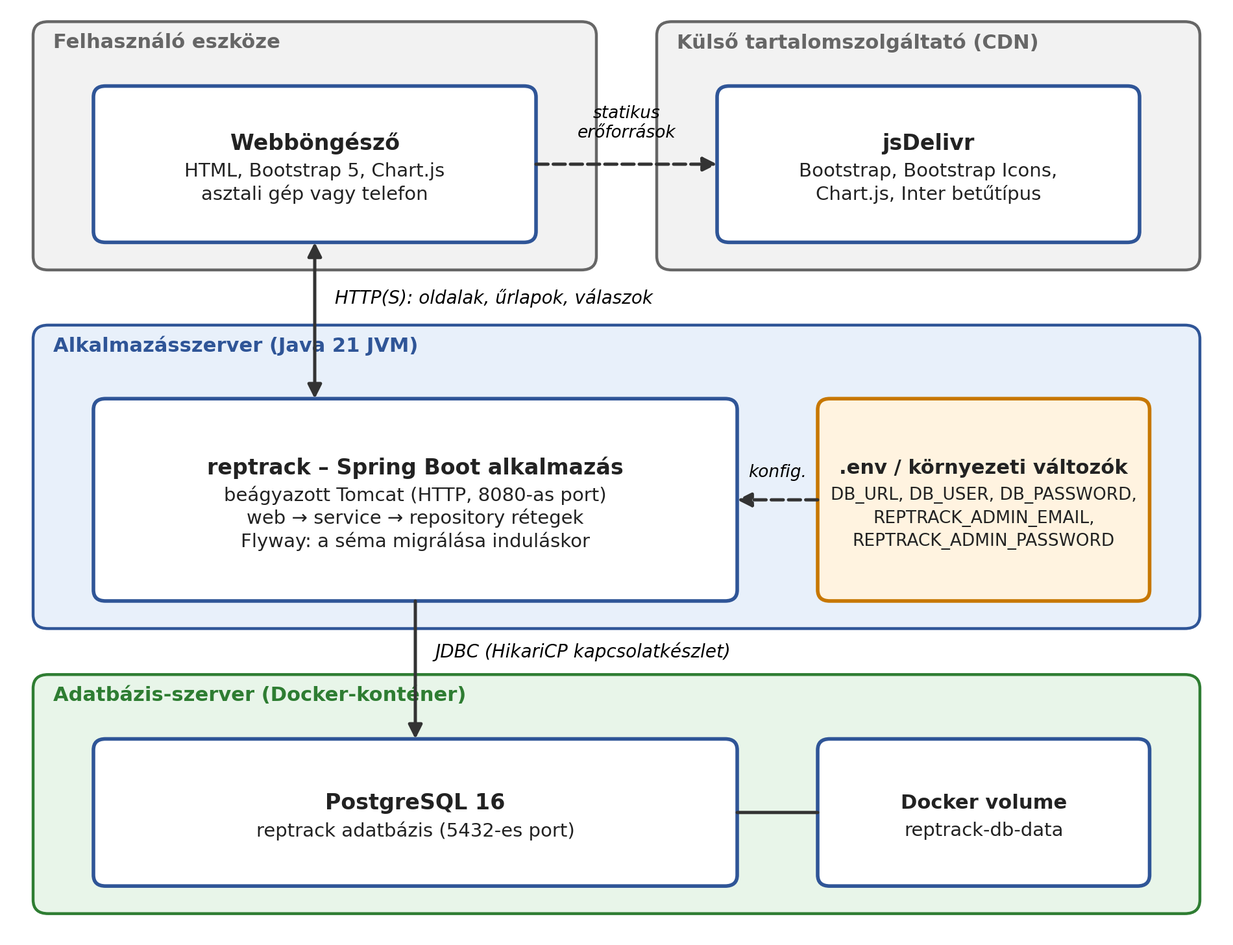
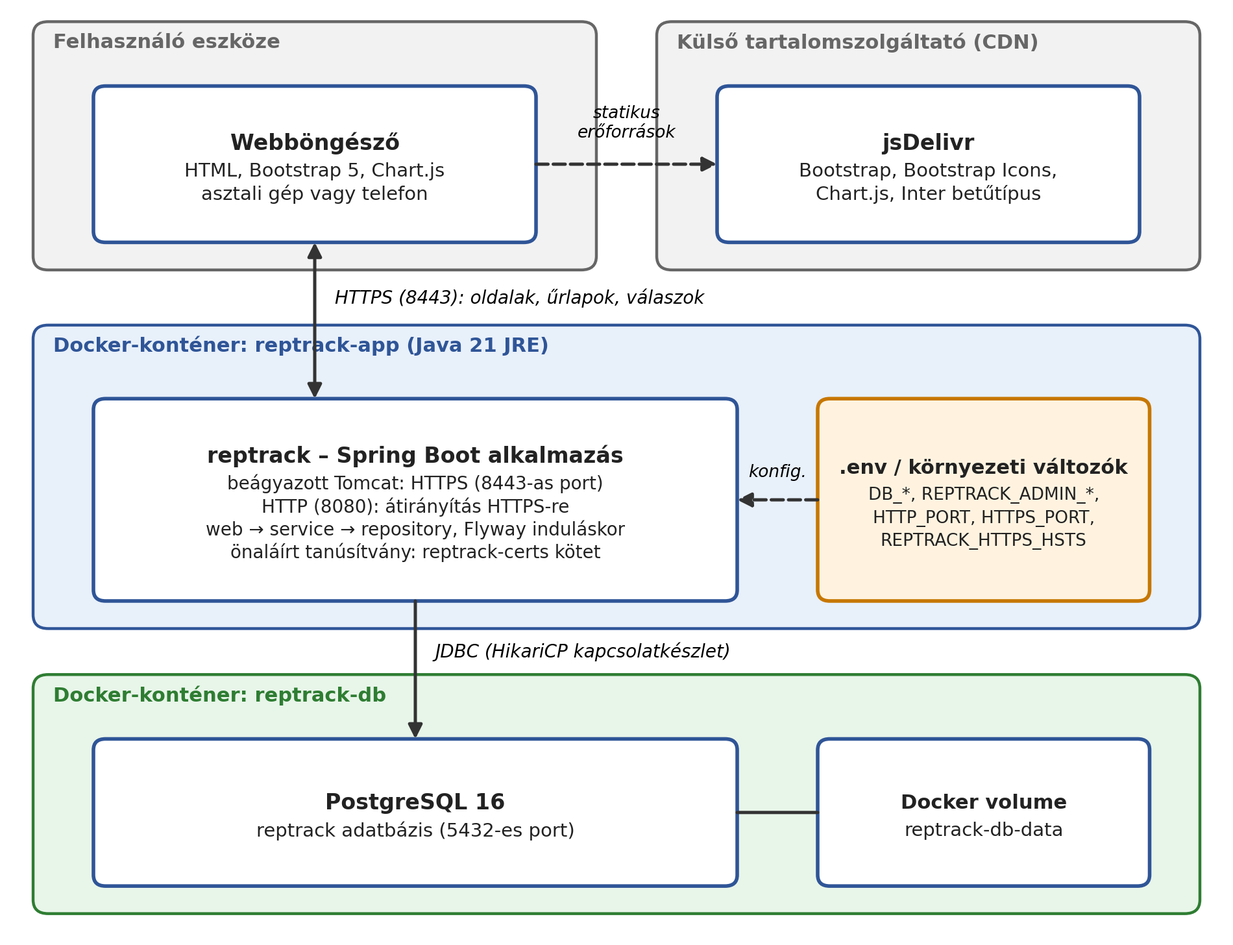
Telepítési dokumentáció, a rendszerterv frissítése a Docker és HTTPS megoldásra
- docs/telepites/build.js: a Telepítési dokumentáció (docx) generátora: Docker-es és Docker nélküli telepítés, beállítások,
  ellenőrzés, mentés, hibaelhárítás
- rendszerterv: a telepítési nézet, a biztonsági fejezet (HTTPS), a konfiguráció, a korlátok és a tesztek száma (255) a
  Docker + HTTPS megoldás (f4e56ee) szerint; az ábrák újragenerálva

diff --git a/docs/telepites/build.js b/docs/telepites/build.js
@@ -1,0 +1,206 @@
+// A Telepítési dokumentáció előállítása: node build.js <kimenet.docx>
+// Előfeltétel: `docx` npm modul (NODE_PATH vagy helyi telepítés). A stílusokat a ../rendszerterv/lib.js adja.
+const fs = require("fs");
+const {
+  Document, Packer, Paragraph, TextRun, ShadingType, BorderStyle, AlignmentType, LevelFormat, Footer, PageNumber,
+  TabStopType,
+} = require("docx");
+const L = require("../rendszerterv/lib");
+const { p, h1, h2, bullets, numbered, note, table, tcap } = L;
+
+const out = process.argv[2] || "Edzeskoveto_Telepitesi_Dokumentacio.docx";
+
+function code(lines) {
+  return lines.map((t, i) => new Paragraph({
+    children: [new TextRun({ text: t, font: L.MONO, size: 19 })],
+    keepNext: i < lines.length - 1,
+    keepLines: true,
+    spacing: { before: i === 0 ? 60 : 0, after: i === lines.length - 1 ? 160 : 0, line: 252 },
+    indent: { left: 200, right: 100 },
+    shading: { type: ShadingType.CLEAR, fill: "F2F2F2", color: "auto" },
+  }));
+}
+
+const c = [];
+
+// ---- fejléc ----
+c.push(new Paragraph({
+  spacing: { after: 60 },
+  children: [new TextRun({ text: "TELEPÍTÉSI DOKUMENTÁCIÓ", bold: true, size: 26, color: L.BLUE2, characterSpacing: 60 })],
+}));
+c.push(new Paragraph({
+  spacing: { after: 80 },
+  children: [new TextRun({ text: "Edzéskövető és elemző alkalmazás (RepTrack)", bold: true, size: 44, color: L.BLUE })],
+}));
+c.push(new Paragraph({
+  spacing: { after: 280 },
+  border: { bottom: { style: BorderStyle.SINGLE, size: 12, color: L.BLUE2, space: 8 } },
+  children: [new TextRun({ text: "Szoftverarchitektúrák (VIAUMA21) · 2026. őszi félév · Dokumentumverzió: 1.0", size: 22, color: "404040" })],
+}));
+
+// ---- 1. ----
+c.push(h1("1. Áttekintés"));
+c.push(p("A RepTrack egy Java 21-es, Spring Boot alapú webalkalmazás, amely PostgreSQL adatbázist használ. Két módon telepíthető:"));
+c.push(...bullets([
+  "**Dockerrel (ajánlott).** Egyetlen paranccsal elindul az alkalmazás és az adatbázis is, az alkalmazás HTTPS-en érhető el. Ehhez csak a Dockerre van szükség, Java vagy PostgreSQL telepítése nem kell.",
+  "**Docker nélkül.** A futtatható JAR-t Java 21-gyel indítjuk, a PostgreSQL-t külön kell biztosítani.",
+]));
+
+// ---- 2. ----
+c.push(h1("2. Követelmények"));
+c.push(tcap("Követelmények"));
+c.push(table(["", "Docker-es telepítés", "Docker nélküli telepítés"], [
+  ["Szoftver", "Docker Engine és a Compose (`docker compose` bővítmény vagy az önálló `docker-compose`)", "JDK vagy JRE 21; PostgreSQL 16"],
+  ["Erőforrás", "kb. 2 GB szabad memória, 2 GB szabad tárhely (képek, Maven-gyorsítótár)", "kb. 1 GB szabad memória"],
+  ["Hálózat", "internet az első építéshez (a Maven-függőségek és az alapképek letöltése)", "–"],
+  ["Portok", "8443 (HTTPS), 8080 (átirányítás), 5432 (PostgreSQL) szabad legyen", "8080 szabad legyen"],
+  ["Böngésző", "modern böngésző (Chrome, Firefox, Edge, Safari); internet-hozzáférés, mert a Bootstrap, a Chart.js és a betűtípus CDN-ről töltődik", "ugyanaz"],
+], [1400, 4300, 3326], { size: 19, boldFirst: true }));
+
+// ---- 3. ----
+c.push(h1("3. Telepítés Dockerrel (ajánlott)"));
+c.push(...numbered([
+  "Csomagold ki a forráscsomagot, és lépj a projekt mappájába: `cd RepTrack`.",
+  "Hozd létre a beállítófájlt a mintából: `cp .env.example .env`. Nyisd meg, és add meg az első adminisztrátor adatait: `REPTRACK_ADMIN_EMAIL`, `REPTRACK_ADMIN_PASSWORD` (legalább 8 karakter) és `REPTRACK_ADMIN_NAME`. **A minta jelszavát mindenképpen cseréld le egy sajátra.**",
+  "Építsd meg és indítsd el a rendszert (az első építés néhány percig tart; a tesztek a képépítéskor nem futnak le):",
+], "numbers"));
+c.push(...code([
+  "docker compose up -d --build",
+]));
+c.push(note("Ha a gépen nincs `docker compose` parancs (a Compose bővítmény hiányzik), használd az önálló változatot: `docker-compose up -d --build`. Minden további `docker compose` parancs ugyanígy cserélhető."));
+c.push(...numbered([
+  "Ellenőrizd, hogy minden elindult: `docker compose ps`. Mindkét szolgáltatás (`db` és `app`) legyen „healthy”. A naplót a `docker compose logs -f app` mutatja; sikeres induláskor megjelenik az „Adminisztrátori fiók létrehozva” sor.",
+  "Nyisd meg a böngészőben a **https://localhost:8443** címet. A tanúsítvány önaláírt, ezért a böngésző első alkalommal figyelmeztet: a „Speciális” gombbal folytasd a megnyitást. A `http://localhost:8080` cím automatikusan a HTTPS-címre irányít.",
+  "Jelentkezz be az 1. lépésben megadott adminisztrátori e-mail-címmel és jelszóval, vagy a „Regisztráció” oldalon hozz létre új felhasználót.",
+], "n2"));
+
+c.push(h2("3.1 Leállítás, újraindítás, törlés"));
+c.push(...code([
+  "docker compose stop           # leállítás (az adatok megmaradnak)",
+  "docker compose start          # újraindítás",
+  "docker compose down           # konténerek törlése (az adatok megmaradnak)",
+  "docker compose down -v        # mindent töröl (adatbázis, tanúsítvány is)",
+]));
+c.push(h2("3.2 Más portok"));
+c.push(p("Ha a 8443-as vagy a 8080-as port foglalt, add meg a `.env` fájlban: `HTTPS_PORT=9443` és `HTTP_PORT=9080`. Az átirányítás is ezekre a portokra mutat."));
+
+// ---- 4. ----
+c.push(h1("4. Telepítés Docker nélkül (futtatható JAR)"));
+c.push(...numbered([
+  "Biztosíts egy PostgreSQL 16 adatbázist `reptrack` néven, `reptrack` felhasználóval. Ha van Docker, a mellékelt Compose fájl csak az adatbázist is el tudja indítani: `docker compose up -d db` (hozzáférés: `reptrack` / `reptrack`, a 5432-es porton).",
+  "Állítsd be a környezeti változókat (vagy hozz létre `.env` fájlt a JAR mellett): `DB_URL`, `DB_USER`, `DB_PASSWORD`, valamint az adminisztrátorhoz `REPTRACK_ADMIN_EMAIL`, `REPTRACK_ADMIN_PASSWORD`. Az alapértékek a helyi adatbázishoz illenek.",
+  "Indítsd el az alkalmazást Java 21-gyel:",
+], "n3"));
+c.push(...code([
+  "java -jar reptrack-0.0.1-SNAPSHOT.jar",
+]));
+c.push(p("Az alkalmazás ekkor sima HTTP-n a **http://localhost:8080** címen érhető el (HTTPS-hez a Docker-es telepítést használd). A sémát a Flyway az első induláskor automatikusan létrehozza, és feltölti az 50 alap gyakorlattal."));
+c.push(h2("4.1 A JAR előállítása a forrásból"));
+c.push(...code([
+  "export JAVA_HOME=/usr/lib/jvm/java-21-openjdk-amd64   # a JDK 21 helye",
+  "./mvnw clean package -DskipTests   # a JAR a target/ mappába kerül",
+  "./mvnw verify                      # tesztek (Docker kell hozzá)",
+]));
+
+// ---- 5. ----
+c.push(h1("5. Beállítások"));
+c.push(tcap("A környezeti változók és a `.env` beállításai"));
+c.push(table(["Változó", "Alapérték", "Jelentés"], [
+  ["`REPTRACK_ADMIN_EMAIL`, `REPTRACK_ADMIN_PASSWORD`", "(nincs)", "az első adminisztrátor adatai; csak akkor használja, ha még nincs adminisztrátor (a meglévő jelszót nem írja át)"],
+  ["`REPTRACK_ADMIN_NAME`", "Adminisztrátor", "az adminisztrátor megjelenített neve"],
+  ["`DB_URL`, `DB_USER`, `DB_PASSWORD`", "`jdbc:postgresql://localhost:5432/reptrack`, `reptrack`, `reptrack`", "adatbázis-hozzáférés (a Compose automatikusan beállítja); a jelszó Docker esetén csak az adatbázis első létrehozása előtt módosítható"],
+  ["`HTTPS_PORT`, `HTTP_PORT`", "8443, 8080", "a Docker-futtatás gazdagépen kiadott portjai"],
+  ["`REPTRACK_HTTPS_HSTS`", "false", "a HSTS fejléc; valódi domainnél és hiteles tanúsítványnál kapcsold be"],
+  ["`SERVER_SSL_KEY_STORE_PASSWORD`", "(a konténer készíti)", "saját tanúsítvány esetén annak jelszava"],
+  ["`SERVER_PORT`", "8080", "a HTTP-port Docker nélküli indításnál"],
+], [3200, 2700, 3126], { size: 18 }));
+c.push(p("", { spacing: { after: 40 } }));
+c.push(p("**Saját tanúsítvány.** A konténer az első induláskor önaláírt tanúsítványt készít, véletlen jelszóval, a `reptrack-certs` kötetbe, így újraindításkor ugyanaz marad (a böngészőben egyszer elfogadott kivétel érvényes marad). Hiteles tanúsítványhoz tedd a kötetbe `reptrack.p12` néven (alias: `reptrack`), és add meg a jelszavát a `SERVER_SSL_KEY_STORE_PASSWORD` változóban."));
+
+// ---- 6. ----
+c.push(h1("6. Működés ellenőrzése"));
+c.push(...bullets([
+  "A **Gyakorlatok** oldalon az 50 alapgyakorlat látszik (kategória, izomcsoport szerint szűrhető).",
+  "Az **Edzések → Új edzés** oldalon vegyél fel egy edzést néhány szettel. A **Befejezés** mezőt és a fáradtságot is töltsd ki: csak a lezárt edzések számítanak bele az egyéni csúcsokba és a túlterhelési szabályokba.",
+  "Vegyél fel még egy, jobb eredményű edzést ugyanabból a gyakorlatból: az **Egyéni csúcsok** oldalon megjelenik az új csúcs. A **Statisztikák** oldalon a diagramok kirajzolódnak.",
+  "A **Profil és célok** oldalon rögzíthető a testtömeg és az edzéscél.",
+]));
+
+// ---- 7. ----
+c.push(h1("7. Biztonsági mentés és visszaállítás"));
+c.push(...code([
+  "# mentés:",
+  "docker exec reptrack-db pg_dump -U reptrack reptrack > mentes.sql",
+  "# visszaállítás (üres adatbázisba):",
+  "docker exec -i reptrack-db psql -U reptrack reptrack < mentes.sql",
+]));
+
+// ---- 8. ----
+c.push(h1("8. Hibaelhárítás"));
+c.push(tcap("Gyakori problémák"));
+c.push(table(["Tünet", "Ok és megoldás"], [
+  ["`port is already allocated` vagy a 8443, 8080, 5432 foglalt", "másik program (például egy helyi PostgreSQL vagy egy korábbi fejlesztői példány) használja a portot. Állítsd le, vagy a `.env`-ben adj meg más `HTTPS_PORT` és `HTTP_PORT` értéket (az 5432-es adatbázisport a Compose fájlban rögzített)."],
+  ["`docker: 'compose' is not a docker command`", "a Compose bővítmény nincs telepítve: használd az önálló `docker-compose` parancsot, vagy telepítsd a Compose bővítményt."],
+  ["Böngészőfigyelmeztetés (például `ERR_CERT_AUTHORITY_INVALID`)", "várt jelenség, a tanúsítvány önaláírt. Fogadd el a „Speciális → Folytatás” gombbal. Hiteles tanúsítványt lásd az 5. fejezetben."],
+  ["Az átirányítás rossz portra mutat", "a `HTTP_PORT` és a `HTTPS_PORT` értéke egyezzen a ténylegesen használt portokkal; a `.env` módosítása után `docker compose up -d` újraindítja az alkalmazást."],
+  ["Az alkalmazás nem indul el, a naplóban admin-hiba szerepel", "az admin adatai hibásak (rossz e-mail-formátum, a jelszó rövidebb 8 karakternél, vagy a cím egy meglévő nem admin fiókhoz tartozik). A hibaüzenet megnevezi a javítandó változót."],
+  ["`password authentication failed for user \"reptrack\"`", "az adatbázis jelszava csak az adatbázis első létrehozásakor érvényesül. Használd a régi jelszót, vagy töröld az adatokat: `docker compose down -v` (adatvesztéssel jár)."],
+  ["Flyway-hiba (`checksum mismatch`) vagy séma-eltérés", "régebbi fejlesztői adatbázis maradt meg. Fejlesztési környezetben `docker compose down -v` után újraépül."],
+  ["`release version 21 not supported` (helyi build)", "a `JAVA_HOME` nem JDK 21-re mutat, lásd a 4.1 szakaszt."],
+  ["Formázás vagy diagramok hiányoznak", "a böngésző nem éri el a CDN-t (Bootstrap, Chart.js); internet-hozzáférés kell."],
+], [3300, 5726], { size: 18 }));
+
+// ---- 9. ----
+c.push(h1("9. Eltávolítás"));
+c.push(...code([
+  "docker compose down -v        # konténerek, adatbázis, tanúsítvány törlése",
+  "docker rmi reptrack:latest    # az alkalmazáskép törlése",
+]));
+
+// ---- dokumentum ----
+function footer() {
+  return new Footer({
+    children: [new Paragraph({
+      tabStops: [{ type: TabStopType.RIGHT, position: 9026 }],
+      border: { top: { style: BorderStyle.SINGLE, size: 4, color: "BFBFBF", space: 6 } },
+      children: [
+        new TextRun({ text: "RepTrack – Telepítési dokumentáció", size: 18, color: "595959" }),
+        new TextRun({ children: ["\t", PageNumber.CURRENT, " / ", PageNumber.TOTAL_PAGES], size: 18, color: "595959" }),
+      ],
+    })],
+  });
+}
+const numCfg = (ref) => ({
+  reference: ref,
+  levels: [{ level: 0, format: LevelFormat.DECIMAL, text: "%1.", alignment: AlignmentType.LEFT, style: { paragraph: { indent: { left: 540, hanging: 360 } } } }],
+});
+const doc = new Document({
+  creator: "RepTrack csapat",
+  title: "RepTrack – Telepítési dokumentáció",
+  styles: {
+    default: { document: { run: { font: L.FONT, size: 22 } } },
+    paragraphStyles: [
+      { id: "Heading1", name: "Heading 1", basedOn: "Normal", next: "Normal", quickFormat: true,
+        run: { font: L.FONT, size: 30, bold: true, color: L.BLUE },
+        paragraph: { spacing: { before: 320, after: 140 }, keepNext: true, keepLines: true, outlineLevel: 0 } },
+      { id: "Heading2", name: "Heading 2", basedOn: "Normal", next: "Normal", quickFormat: true,
+        run: { font: L.FONT, size: 25, bold: true, color: L.BLUE2 },
+        paragraph: { spacing: { before: 220, after: 100 }, keepNext: true, keepLines: true, outlineLevel: 1 } },
+    ],
+  },
+  numbering: {
+    config: [
+      { reference: "bullets", levels: [{ level: 0, format: LevelFormat.BULLET, text: "•", alignment: AlignmentType.LEFT, style: { paragraph: { indent: { left: 540, hanging: 270 } } } }] },
+      numCfg("numbers"), numCfg("n2"), numCfg("n3"),
+    ],
+  },
+  sections: [{
+    properties: { page: { size: { width: 11906, height: 16838 }, margin: { top: 1300, right: 1440, bottom: 1300, left: 1440, footer: 600 } } },
+    footers: { default: footer() },
+    children: c,
+  }],
+});
+Packer.toBuffer(doc).then((buf) => {
+  fs.writeFileSync(out, buf);
+  console.log("kész:", out, `(${(buf.length / 1024).toFixed(0)} KB)`);
+});

diff --git a/docs/rendszerterv/ch7_end.js b/docs/rendszerterv/ch7_end.js
@@ -11,7 +11,7 @@ module.exports = function (c) {
     ["Hitelesítés", "Spring Security űrlapos bejelentkezés e-mail-címmel és jelszóval, saját `/login` oldalon. A felhasználót az `AccountDetailsService` tölti be az adatbázisból; a letiltott fiók (`enabled = false`) nem léphet be."],
     ["Jelszótárolás", "BCrypt hash a `password_hash` oszlopban; a jelszó legalább 8 karakter, legfeljebb 72 bájt (a BCrypt határa). A jelszó sehol nem kerül a naplóba."],
     ["Hibaüzenetek", "Hibás e-mail-címre és hibás jelszóra ugyanaz az üzenet jelenik meg, így nem derül ki, mely címek regisztráltak."],
-    ["Munkamenet", "Szerveroldali munkamenet; bejelentkezéskor új munkamenet-azonosító jön létre (session fixation elleni védelem, a Spring Security alapja). A kijelentkezés csak POST kéréssel és tokennel működik."],
+    ["Munkamenet", "Szerveroldali munkamenet; bejelentkezéskor új munkamenet-azonosító jön létre (session fixation elleni védelem, a Spring Security alapja). A süti HTTPS-en `secure` jelzésű. A kijelentkezés csak POST kéréssel és tokennel működik."],
     ["CSRF", "Bekapcsolva; minden `th:action` űrlap automatikusan megkapja a tokent, a token nélküli módosító kérés elutasításra kerül."],
     ["Jogosultság", "URL-szabályok: a nyitóoldal, a bejelentkezés, a regisztráció, a hibaoldal és a statikus fájlok nyilvánosak; az `/admin/**` ADMIN szerepkört kér; minden más USER-t. Szerepkör-hierarchia: ADMIN > USER. A közös gyakorlatokat kezelő szolgáltatásmetódusokat metódusszintű `@PreAuthorize(\"hasRole('ADMIN')\")` is védi (`@EnableMethodSecurity`)."],
     ["Tulajdonos-ellenőrzés", "Minden szolgáltatásművelet a bejelentkezett felhasználó azonosítójával dolgozik; idegen adat „nem található” (404). A testtömeg- és pulzusadatokat csak a tulajdonosuk éri el, az adminisztrátor sem (nincs ilyen funkció)."],
@@ -20,10 +20,10 @@ module.exports = function (c) {
     ["XSS", "A Thymeleaf `th:text` minden kimenetet escape-el; `th:utext` sehol nincs használatban."],
     ["Titkok", "Az adatbázis-jelszó és az első adminisztrátor adatai környezeti változóban vagy a tárolón kívüli `.env` fájlban vannak. Az adminisztrátor létrehozása után a jelszó törölhető a `.env`-ből."],
     ["Hibaoldalak", "Egységes hibaoldal; nem jelenít meg veremnyomot vagy technikai részleteket."],
-    ["HTTPS", "A specifikáció szerint kötelező. A fejlesztői üzemmód HTTP-n fut; éles üzemben a TLS-t a szerver előtti reverse proxy vagy a Spring Boot SSL-beállítása adja (tervezett, 11. fejezet)."],
+    ["HTTPS", "A Docker-futtatás a 8443-as porton HTTPS-t szolgál ki önaláírt tanúsítvánnyal (első induláskor készül, véletlen jelszóval, kötetben marad). A 8080-as porton érkező HTTP-kérések HTTPS-re irányítódnak. A HSTS fejléc kapcsolható (önaláírt tanúsítványnál alapból ki van kapcsolva). A tanúsítvány és a jelszava nem kerül a tárolóba."],
   ], [2000, 7026], { size: 18 }));
   out.push(p("", { spacing: { after: 60 } }));
-  out.push(note("Ismert korlát: a CDN-ről töltött Chart.js-hez még nincs Subresource Integrity (SRI) hash megadva, és a HTTPS beállítása még hátra van. Mindkettő a telepítési környezet véglegesítésekor zárható le."));
+  out.push(note("Ismert korlát: a CDN-ről töltött Chart.js-hez még nincs Subresource Integrity (SRI) hash megadva, és az önaláírt tanúsítványt a böngésző első alkalommal figyelmeztetéssel fogadja; éles üzemben hiteles tanúsítvány kell."));
 
   // ------------------------------------------------------------------------------------------------ 8.
   out.push(h1("8. Felhasználói felület és dizájn"));
@@ -54,12 +54,12 @@ module.exports = function (c) {
   // ------------------------------------------------------------------------------------------------ 9.
   out.push(h1("9. Tesztelés"));
   out.push(p("A tesztstratégia a rétegekhez igazodik. A tiszta szabály-komponenseket adatbázis nélkül, gyorsan teszteljük; minden más (szolgáltatások, adatelérés, séma) **valódi PostgreSQL-lel** fut Testcontainers segítségével. A tesztek egyetlen, közös PostgreSQL 16 konténert használnak (`IntegrationTestBase`), így a Flyway-migrációk, a megszorítások és a lekérdezések a tesztekben is a valós sémán futnak."));
-  out.push(tcap("A tesztek összetétele (250 teszt a dokumentum készítésekor)"));
+  out.push(tcap("A tesztek összetétele (255 teszt a dokumentum készítésekor)"));
   out.push(table(["Réteg", "Mit ellenőriznek", "Eszköz", "Darab"], [
     ["Szabályok (`rules`)", "PR-felismerés, túlterhelési szabályok, statisztikák, képletek (határesetekkel); tiszta egységtesztek", "JUnit 5", "69"],
     ["Szolgáltatások (`service`)", "használati esetek valódi adatbázissal: edzés rögzítése, módosítása, törlése, a PR-ek és figyelmeztetések következményei, szűrés, statisztikák, regisztráció, gyakorlatok keresése és kezelése", "Spring Boot Test, Testcontainers", "87"],
     ["Adatelérés és séma (`repository`)", "a CHECK, UNIQUE és idegen kulcs megszorítások tényleges kikényszerítése, a 50 gyakorlatos alapadat épsége, lekérdezések", "Testcontainers", "37"],
-    ["Web (`web`)", "ki melyik oldalt éri el (biztonsági szabályok), regisztráció és bejelentkezés, közös oldalváz, gyakorlatböngésző és -kezelés", "MockMvc, Spring Security Test", "44"],
+    ["Web (`web`)", "ki melyik oldalt éri el (biztonsági szabályok), regisztráció és bejelentkezés, közös oldalváz, gyakorlatböngésző és -kezelés, HTTP→HTTPS átirányítás", "MockMvc, Spring Security Test", "49"],
     ["Konfiguráció (`config`)", "az első adminisztrátor létrehozása indulásnál, a `.env` beolvasása", "JUnit 5, Spring Boot Test", "12"],
     ["Alkalmazás indulása", "a Spring-kontextus hiba nélkül betöltődik", "Spring Boot Test", "1"],
   ], [2300, 4300, 1700, 726], { size: 18 }));
@@ -79,10 +79,11 @@ module.exports = function (c) {
     "Maven nem kell, a projekt Maven wrappert (`./mvnw`) tartalmaz.",
   ]));
   out.push(...code([
-    "docker-compose up -d        # PostgreSQL: localhost:5432",
-    "./mvnw spring-boot:run      # az alkalmazás: http://localhost:8080",
-    "./mvnw verify               # tesztek",
-    "./mvnw clean package        # futtatható JAR a target/ mappába",
+    "docker compose up -d --build   # teljes rendszer: https://localhost:8443",
+    "docker compose up -d db        # fejlesztéshez: csak a PostgreSQL (5432)",
+    "./mvnw spring-boot:run         # helyi indítás: http://localhost:8080",
+    "./mvnw verify                  # tesztek (Docker kell)",
+    "./mvnw clean package           # futtatható JAR a target/ mappába",
   ]));
   out.push(p("A telepítés részletes lépéseit a külön **Telepítési dokumentáció** írja le."));
 
@@ -93,7 +94,10 @@ module.exports = function (c) {
     ["`DB_USER`, `DB_PASSWORD`", "`reptrack`, `reptrack`", "adatbázis-hozzáférés (fejlesztési alapérték; éles üzemben felülírandó)"],
     ["`REPTRACK_ADMIN_EMAIL`, `REPTRACK_ADMIN_PASSWORD`", "(nincs)", "az első adminisztrátor adatai; csak akkor használja, ha még nincs adminisztrátor"],
     ["`REPTRACK_ADMIN_NAME`", "Adminisztrátor", "az első adminisztrátor megjelenített neve"],
-    ["`SERVER_PORT`", "8080", "a HTTP-port (Spring Boot szabványos beállítás)"],
+    ["`SERVER_PORT`", "8080", "a HTTP-port helyi indításnál (Spring Boot szabványos beállítás)"],
+    ["`HTTPS_PORT`, `HTTP_PORT`", "8443, 8080", "a Docker-futtatás gazdagépen kiadott portjai (az átirányítás is ezekre mutat)"],
+    ["`REPTRACK_HTTPS_HSTS`", "false", "a HSTS fejléc; valódi domainnél és tanúsítványnál kapcsolható be"],
+    ["`SERVER_SSL_KEY_STORE_PASSWORD`", "(a konténer készíti)", "saját tanúsítvány (`reptrack.p12`) esetén annak jelszava"],
     ["`reptrack.timezone`", "Europe/Budapest", "a hét- és hónaphatárok, a napi bontás időzónája"],
   ], [3100, 2900, 3026], { size: 18 }));
   out.push(p("", { spacing: { after: 60 } }));
@@ -113,7 +117,7 @@ module.exports = function (c) {
     ["Fiókkezelés (UC13)", "az adminisztrátori fiókkezelés (listázás, tiltás, jelszó-visszaállítás) még nem készült el", "fiókok kezelése az `/admin/**` alatt"],
     ["Fiók és adatok törlése (UC14)", "az adatbázis kaszkádolt törlése kész, a felület nincs meg", "megerősítéssel védett törlés"],
     ["Edzéssablonok (UC15)", "entitások és repository-k kész; szolgáltatás és felület hiányzik", "sablon mentése, szerkesztése, edzés indítása sablonból"],
-    ["HTTPS, Docker Compose", "a Compose csak az adatbázist indítja; HTTPS nincs beállítva", "teljes verem Compose-szal, TLS reverse proxyval"],
+    ["Tanúsítvány", "a HTTPS önaláírt tanúsítványt használ, a böngésző első alkalommal figyelmeztet", "hiteles tanúsítvány (pl. Let's Encrypt) valódi domainhez"],
     ["Demófelhasználó", "mintaadatokkal feltöltött felhasználó nincs", "bemutatható, több hónapnyi adat"],
     ["Állóképességi cél", "a haladása nincs definiálva, csak a célt jelenítjük meg", "távolság- vagy időalapú célérték"],
     ["Egyidejű mentés", "ha két kérés a verzióellenőrzés után, pontosan egyszerre ér az adatbázishoz, a JPA verzióütközése az általános hibaoldalon jelenik meg a 409-es üzenet helyett", "az ütközés kivételének leképezése 409-re"],
@@ -134,7 +138,7 @@ module.exports = function (c) {
   ]));
   out.push(h2("12.2 Technikai fejlesztések"));
   out.push(...bullets([
-    "**Üzemeltetés:** a teljes verem Docker Compose-szal, HTTPS reverse proxyval, folyamatos integráció (build és tesztek minden pull requestnél), Actuator-alapú állapot- és metrikavégpontok.",
+    "**Üzemeltetés:** hiteles tanúsítvány és domain, folyamatos integráció (build és tesztek minden pull requestnél), Actuator-alapú állapot- és metrikavégpontok.",
     "**REST API (JSON):** mobilalkalmazás vagy külső kliens számára; a szolgáltatási réteg változtatás nélkül újrahasznosítható, mert a webes réteg csak DTO-kat használ.",
     "**Teljesítmény:** a statisztikák gyorsítótárazása nagy adatmennyiségnél (az újraszámolás az edzésmentésre érvényteleníthető), nagyobb adatkészletekhez az összesítések adatbázis-oldali aggregálása.",
     "**Offline használat:** a statikus erőforrások helyi csomagolása, majd PWA-támogatás, hogy az edzés internet nélkül is rögzíthető legyen.",
@@ -152,7 +156,7 @@ module.exports = function (c) {
     "a **tulajdonos-ellenőrzés mint alapelv**: minden művelet a bejelentkezett felhasználó azonosítójával dolgozik;",
     "az **optimista zárolás** és az **egy tranzakcióban végzett mentés és kiértékelés**, amelyek a párhuzamos használatnál is konzisztensen tartják az adatot.",
   ]));
-  out.push(p("Néhány funkció még hátra van (fiókkezelés, fióktörlés, sablonok, HTTPS és a teljes Docker-csomagolás); ezeket a 11. fejezet sorolja fel. A rétegelt felépítés miatt ezek a meglévő kód módosítása nélkül, új szolgáltatásként és felületként illeszthetők be, a 12. fejezet pedig további irányokat mutat."));
+  out.push(p("Néhány funkció még hátra van (fiókkezelés, fióktörlés, sablonok és a demófelhasználó); ezeket a 11. fejezet sorolja fel. A rétegelt felépítés miatt ezek a meglévő kód módosítása nélkül, új szolgáltatásként és felületként illeszthetők be, a 12. fejezet pedig további irányokat mutat."));
 
   // ------------------------------------------------------------------------------------------------ függelék
   out.push(h1("Függelék: Képletek és definíciók"));

diff --git a/docs/rendszerterv/ch1_3.js b/docs/rendszerterv/ch1_3.js
@@ -92,7 +92,8 @@ module.exports = function (c) {
     ["Adatelérés", "Spring Data JPA (Hibernate 7), JPQL, Criteria API", "paraméterezett lekérdezések"],
     ["Adatbázis", "PostgreSQL 16", "fejlesztéskor Docker konténerben"],
     ["Séma-verziózás", "Flyway (V1–V4)", "`ddl-auto=validate`: a Hibernate csak ellenőriz"],
-    ["Biztonság", "Spring Security 7", "űrlapos bejelentkezés, BCrypt, CSRF, szerepkör-hierarchia"],
+    ["Biztonság", "Spring Security 7", "űrlapos bejelentkezés, BCrypt, CSRF, szerepkör-hierarchia, HTTPS"],
+    ["Üzemeltetés", "Docker, Docker Compose", "többlépcsős Dockerfile; az alkalmazás és a PostgreSQL egy paranccsal indul"],
     ["Tesztelés", "JUnit 5, Spring Boot Test, Testcontainers, Spring Security Test", "valódi PostgreSQL a tesztekben"],
     ["Verziókezelés", "Git, GitHub", "feature-ágak, pull request és áttekintés"],
   ], [1700, 3700, 3626], { size: 19 }));
@@ -105,7 +106,6 @@ module.exports = function (c) {
     ["Diagramok adatai", "JSON végpontok", "a szerver az összesített adatsorokat JSON-ként beágyazza az oldalba", "egyetlen kérés, nincs külön REST-felület; ugyanaz a védelem, mint az oldalé"],
     ["Célhaladás helye", "a statisztikai oldalon", "a „Profil és célok” oldalon, a cél mellett", "a cél és a haladása egy helyen látszik"],
     ["A BLL tesztelése", "Mockito egységtesztek", "szabályok: tiszta egységtesztek; szolgáltatások: integrációs tesztek valódi PostgreSQL-lel", "a szolgáltatások logikája az adatbázishoz (megszorítások, lekérdezések) kötődik, ezt mock nem ellenőrzi"],
-    ["HTTPS, Docker Compose", "alkalmazás és adatbázis konténerben, HTTPS", "Docker Compose csak az adatbázist futtatja; HTTPS: tervezett", "lásd a 7. és 11. fejezetet"],
     ["Demófelhasználó", "néhány hónapnyi mintaadat", "tervezett", "az 50 gyakorlatos alapadatbázis már megvan"],
   ], [1500, 2000, 2900, 2626], { size: 19 }));
 
@@ -148,12 +148,12 @@ module.exports = function (c) {
   out.push(h2("3.4 Telepítési nézet"));
   out.push(...FIG("telepitesi-nezet", 15, "Telepítési nézet"));
   out.push(...bullets([
-    "Az alkalmazás **egyetlen Spring Boot JAR**, beágyazott Tomcat-tel (alapértelmezetten a 8080-as porton).",
-    "Az adatbázis **PostgreSQL 16**; fejlesztéskor a `docker-compose.yml` Docker konténerben indítja, a `reptrack-db-data` kötettel, hogy az adatok újraindítás után is megmaradjanak.",
+    "Az alkalmazás **egyetlen Spring Boot JAR**, beágyazott Tomcat-tel. A `Dockerfile` kétlépcsős: JDK-val fordít, majd egy csak JRE-t tartalmazó, nem root felhasználóval futó képbe csomagolja.",
+    "A `docker-compose.yml` két szolgáltatást indít: az `app` az alkalmazás, a `db` pedig a **PostgreSQL 16** a `reptrack-db-data` kötettel, állapotellenőrzéssel. Az alkalmazás csak az adatbázis egészséges állapota után indul, így az adatok újraindítás után is megmaradnak.",
+    "**HTTPS:** az alkalmazás a 8443-as porton szolgál ki HTTPS-sel. Az önaláírt tanúsítványt a konténer az első induláskor készíti (`docker/entrypoint.sh`, véletlen jelszóval, a `reptrack-certs` kötetbe), így újraindítás után ugyanaz marad. A 8080-as porton csak egy átirányító csatlakozó figyel, amely minden HTTP-kérést HTTPS-re irányít (`HttpsConfig`, `SecurityConfig`). A munkamenet-süti `secure` jelzésű.",
     "Induláskor a **Flyway** végrehajtja a hiányzó migrációkat, majd a Hibernate ellenőrzi, hogy az entitások megfelelnek-e a sémának (`ddl-auto=validate`); eltérésnél az alkalmazás nem indul el.",
-    "A konfigurációt **környezeti változók** vagy a (tárolón kívüli) `.env` fájl adja (10. fejezet).",
+    "A konfigurációt a **`.env` fájl** és a környezeti változók adják (10. fejezet). Fejlesztéskor az alkalmazás helyi JDK-val, sima HTTP-n is indítható; ilyenkor a Compose csak az adatbázist futtatja.",
     "A böngésző a Bootstrap, a Chart.js, az ikonok és a betűtípus fájljait **CDN-ről** tölti le; az alkalmazásadatok nem mennek a CDN felé.",
-    "A **HTTPS** a specifikáció szerint kötelező; a TLS lezárása a szerver előtti reverse proxyban vagy a Spring Boot SSL-beállításával történik (tervezett, lásd a 7. és 11. fejezetet).",
   ]));
 
   out.push(h2("3.5 Egy kérés útja"));

diff --git a/docs/rendszerterv/ch4_6.js b/docs/rendszerterv/ch4_6.js
@@ -168,7 +168,8 @@ module.exports = function (c) {
 
   out.push(h2("4.6 Konfiguráció és indulás (`hu.reptrack.config`)"));
   out.push(...bullets([
-    "**`SecurityConfig`**: a szűrőlánc, az URL-szabályok, a szerepkör-hierarchia (ADMIN > USER), a BCrypt kódoló (7. fejezet).",
+    "**`SecurityConfig`**: a szűrőlánc, az URL-szabályok, a szerepkör-hierarchia (ADMIN > USER), a BCrypt kódoló, HTTPS esetén a HTTP→HTTPS átirányítás és a HSTS-beállítás (7. fejezet).",
+    "**`HttpsConfig`**: HTTPS esetén (docker profil) egy második, sima HTTP-csatlakozót nyit, amely csak az átirányításra való.",
     "**`ClockConfig`**: a `Clock` bean, amelyet az időfüggő szolgáltatások használnak.",
     "**`DotEnvEnvironmentPostProcessor`**: a `.env` fájl beolvasása a Spring környezetébe (a `META-INF/spring.factories` regisztrálja).",
     "**`AdminBootstrap`**: indulás után létrehozza az első adminisztrátort a `REPTRACK_ADMIN_*` változókból, ha még nincs adminisztrátor. Ha már van, nem történik semmi (a jelszót sem írja át); hibás adatnál az alkalmazás nem indul el; a jelszó nem kerül a naplóba.",

diff --git a/docs/rendszerterv/diagrams.py b/docs/rendszerterv/diagrams.py
@@ -402,12 +402,13 @@ def deployment():
     box(ax, 8, 75, 44, 17, "white", "Webböngésző", ["HTML, Bootstrap 5, Chart.js", "asztali gép vagy telefon"], tsize=12)
     zone(ax, 64, 72, 54, 27, "gray", "Külső tartalomszolgáltató (CDN)")
     box(ax, 70, 75, 42, 17, "white", "jsDelivr", ["Bootstrap, Bootstrap Icons,", "Chart.js, Inter betűtípus"], tsize=12)
-    zone(ax, 2, 33, 116, 33, "blue", "Alkalmazásszerver (Java 21 JVM)")
+    zone(ax, 2, 33, 116, 33, "blue", "Docker-konténer: reptrack-app (Java 21 JRE)")
     box(ax, 8, 36, 64, 22, "white", "reptrack – Spring Boot alkalmazás",
-        ["beágyazott Tomcat (HTTP, 8080-as port)", "web → service → repository rétegek", "Flyway: a séma migrálása induláskor"], tsize=12)
+        ["beágyazott Tomcat: HTTPS (8443-as port)", "HTTP (8080): átirányítás HTTPS-re", "web → service → repository, Flyway induláskor",
+         "önaláírt tanúsítvány: reptrack-certs kötet"], tsize=12, bsize=10)
     box(ax, 80, 36, 33, 22, "orange", ".env / környezeti változók",
-        ["DB_URL, DB_USER, DB_PASSWORD,", "REPTRACK_ADMIN_EMAIL,", "REPTRACK_ADMIN_PASSWORD"], tsize=11, bsize=9.5)
-    zone(ax, 2, 2, 116, 26, "green", "Adatbázis-szerver (Docker-konténer)")
+        ["DB_*, REPTRACK_ADMIN_*,", "HTTP_PORT, HTTPS_PORT,", "REPTRACK_HTTPS_HSTS"], tsize=11, bsize=9.5)
+    zone(ax, 2, 2, 116, 26, "green", "Docker-konténer: reptrack-db")
     box(ax, 8, 5, 64, 16, "white", "PostgreSQL 16", ["reptrack adatbázis (5432-es port)"], tsize=12)
     box(ax, 80, 5, 33, 16, "white", "Docker volume", ["reptrack-db-data"], tsize=11)
 
@@ -415,7 +416,7 @@ def deployment():
         arrowstyle="<|-|>", color="#333333", lw=1.8, linestyle="--" if dashed else "-", shrinkA=0, shrinkB=0,
         mutation_scale=16))
     arrow2((30, 75), (30, 58))
-    ax.text(32, 69, "HTTP(S): oldalak, űrlapok, válaszok", fontsize=10, style="italic", va="center")
+    ax.text(32, 69, "HTTPS (8443): oldalak, űrlapok, válaszok", fontsize=10, style="italic", va="center")
     arrow(ax, (52, 83.5), (70, 83.5), dashed=True)
     ax.text(61, 86, "statikus\nerőforrások", fontsize=9.5, style="italic", ha="center", va="bottom")
     arrow(ax, (80, 47), (72, 47), dashed=True)
